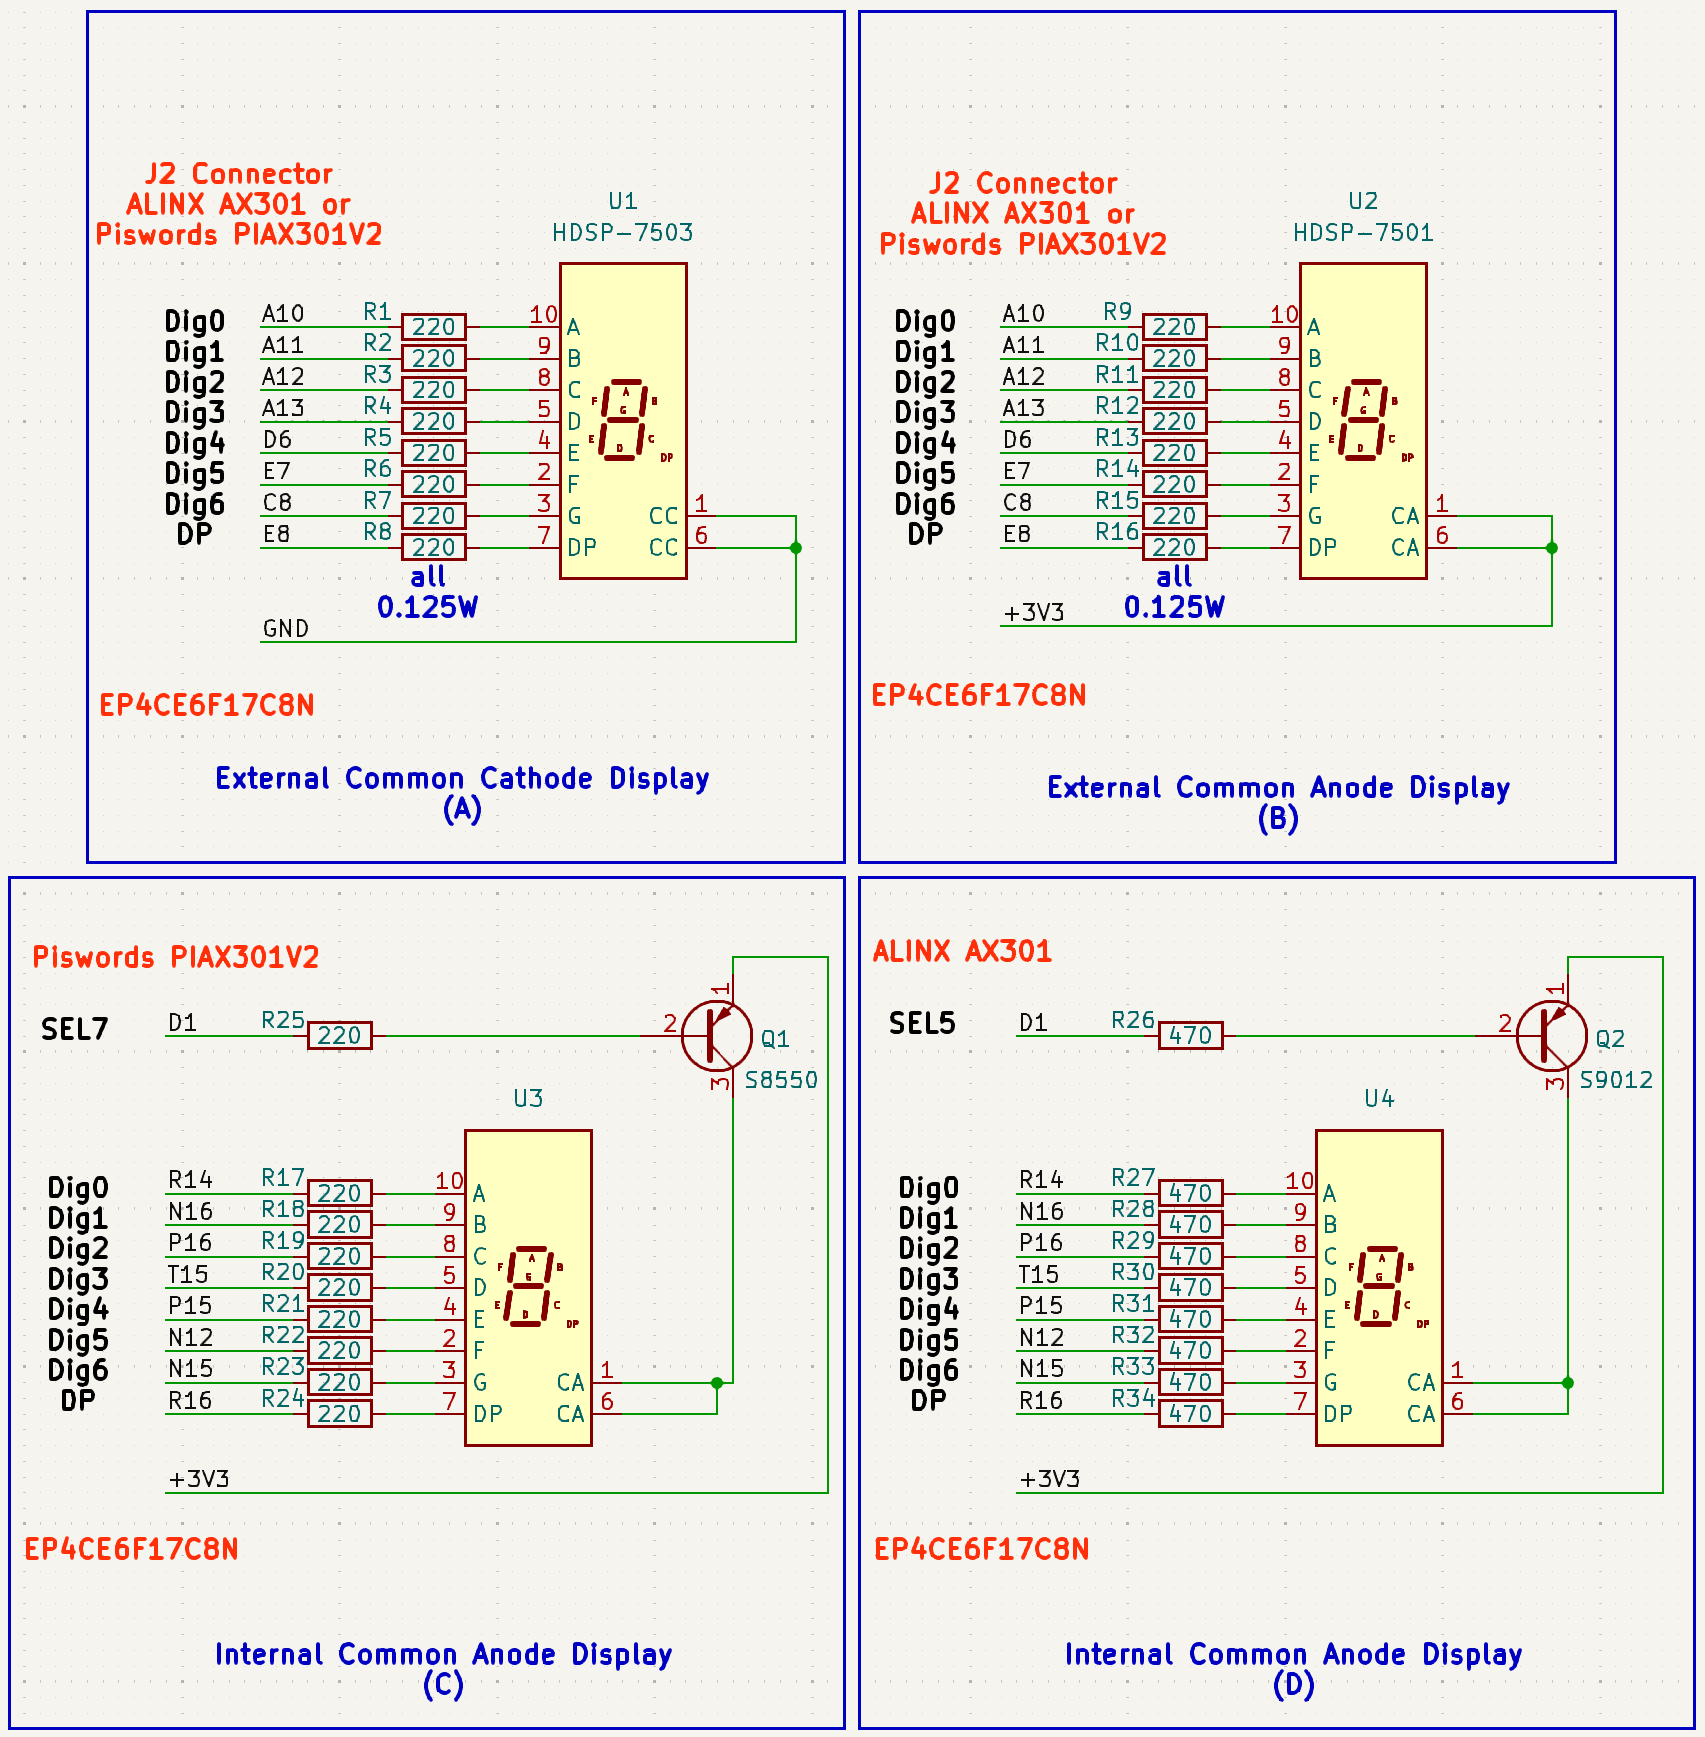
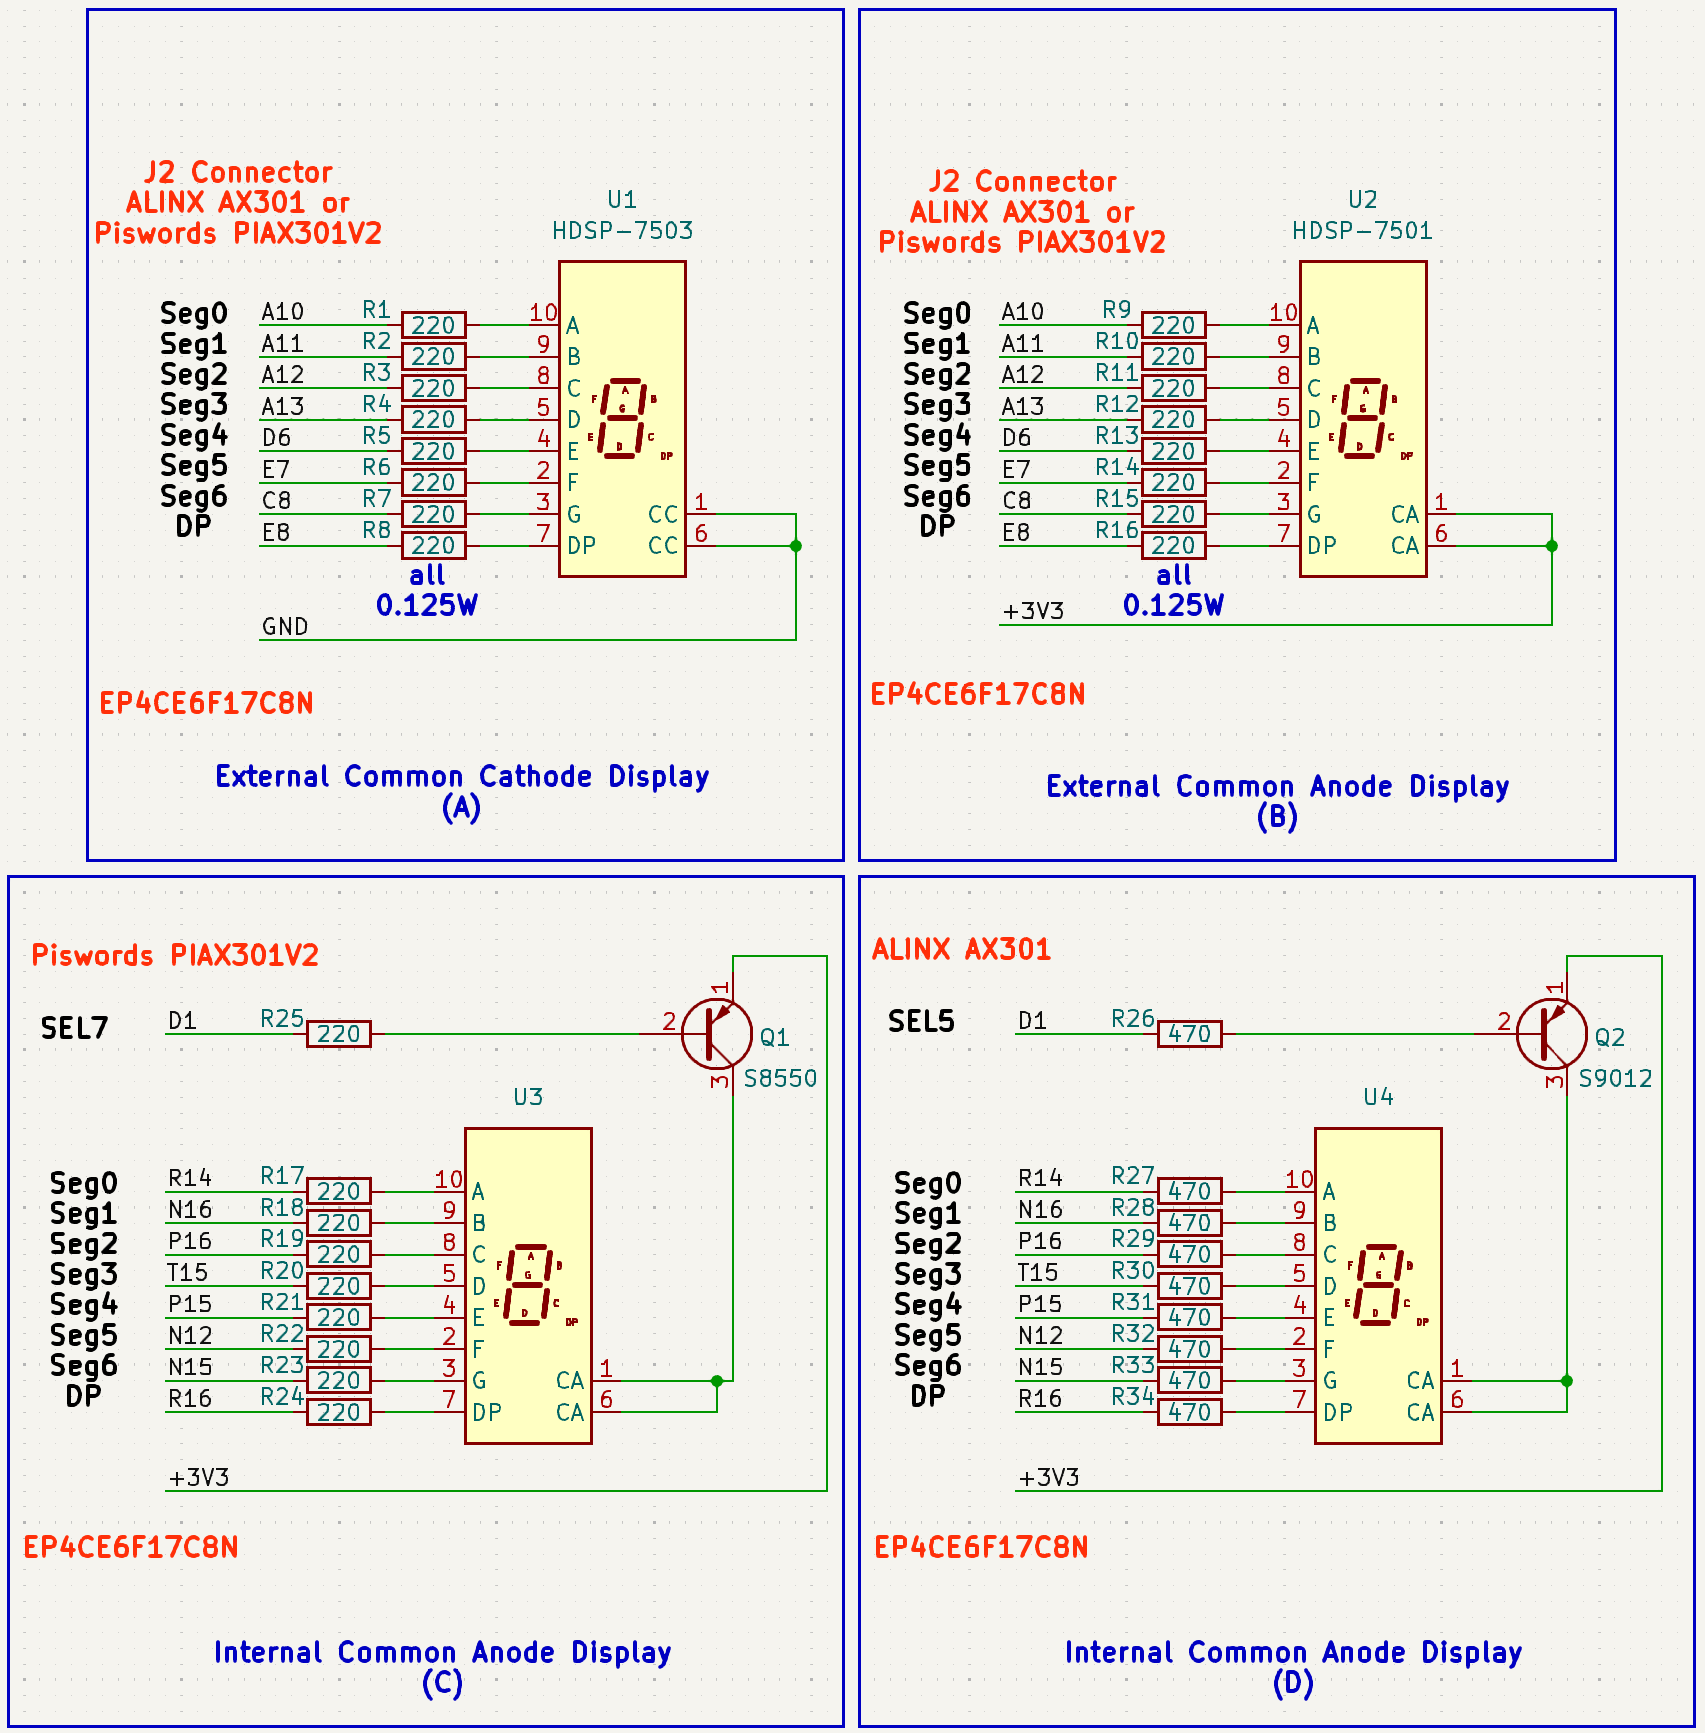
modified:   1_ Digit_Display/README_1.md modified:   Pictures/Figure1.png

diff --git a/1_ Digit_Display/README_1.md b/1_ Digit_Display/README_1.md
@@ -46,3 +46,19 @@ BCD stands for Binary-Coded Decimal and is used In computing and electronic syst
 
 BCD encoding is not unique, there are many variations. I will use simple BCD encoding, also called 8421 encoding.
 
+Connecting the 7 Segment Common Cathode LED display to the FPGA chip is done as in figures 1A, 1C and 1D. For other boards, the connected pin number is indicated.
+
+Seg0 to Seg6 represent the Segment command, which corresponds to segments a to g of the 7-segment display. BP is the Decimal Point command. SEL5 is the Select Digit 5 command, and SEL7 is the Select Digit 7 command.
+
+The Module implemented in the FPGA is shown in Figure 2 and consists of a BCD to 7 Segment decoder.
+
+![ Figure 2 ](/Pictures/Figure2.png)
+
+The module has:
+- 4 input pins for data where the BCD code is presented;
+- 1 input pin for control of the Decimal Point;
+- 7 output pins for controlling segments a to g of the 7 Segment display;
+- 1 output pin for controlling the Decimal Point of the 7 Segment display;
+- 1 output pin for controlling SEL5 or SEL7 in the case of embedded displays.
+
+
